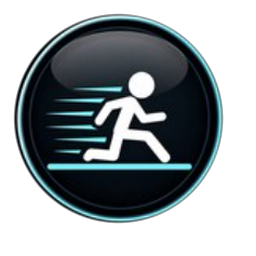
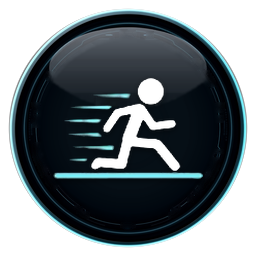
HUD: one design line for menu, minimap toggle, jump and glitch (touch)
- menu (≡) and minimap toggle now use the board's glass-disc PNG (new img/hud/menu.png, img/hud/minimap.png)
- menu sits in the 58px grid slot left of pause; minimap toggle 26px -> 40px
- jump.png / glitch.png redrawn on the same disc (no silver bevel / offset disc), glyphs kept
- glitch 66px -> 60px (same tier as aim), centre unchanged
Draft only, no merge, waiting for QA.

diff --git a/public/style.css b/public/style.css
@@ -1268,6 +1268,22 @@ body.touch #scoreboard-toggle { width: 46px !important; height: 46px !important;
 #scoreboard-toggle:active, #minimap-toggle:active { transform: scale(.94); filter: brightness(1.18); }
 #scoreboard-toggle:focus-visible, #minimap-toggle:focus-visible { outline: 2px solid #ffd23d; outline-offset: 2px; }
 
+/* 0.16.68 one HUD line (touch): the menu (≡) and minimap buttons wear the same glass-disc PNG as the board
+   (img/hud/menu.png, img/hud/minimap.png: 240/256 disc, thin cyan ring, white glyph). Menu sits in the 58px grid slot left of pause;
+   glitch is the 60px tier like aim, centred where it was. Jump and glitch PNGs were redrawn on the same disc (no silver bevel). */
+body.touch #scoreboard-toggle, body.touch #minimap-toggle {
+  background: url(img/hud/menu.png) center / 100% 100% no-repeat !important;
+  border: 0 !important; box-shadow: none !important; color: transparent !important; font-size: 0 !important; overflow: hidden;
+}
+body.touch #minimap-toggle { background-image: url(img/hud/minimap.png) !important; width: 40px !important; height: 40px !important; }
+body.touch #scoreboard-toggle svg { display: none; }
+body.touch #scoreboard-toggle { left: 0 !important; top: 8px !important; width: 58px !important; height: 58px !important; }
+body.touch #touch #t-glitch { right: 25px; bottom: 107px; width: 60px; height: 60px; }
+@media (orientation: portrait), (max-width: 430px) {
+  body.touch #scoreboard-toggle { left: 6px !important; top: 6px !important; width: 46px !important; height: 46px !important; }
+  body.touch #touch #t-glitch { right: 17px; bottom: 87px; width: 48px; height: 48px; }
+}
+
 /* 0.16.62 pause: the game blurs behind a single centred card; taps outside it return to the game */
 #pause { background: rgba(5,7,16,.42) !important; -webkit-backdrop-filter: blur(9px) saturate(.85); backdrop-filter: blur(9px) saturate(.85); justify-content: center; gap: 12px; padding: max(12px, env(safe-area-inset-top, 0px)) 16px max(12px, env(safe-area-inset-bottom, 0px)); text-shadow: none; z-index: 30; }
 #pause.hidden { display: none !important; }
